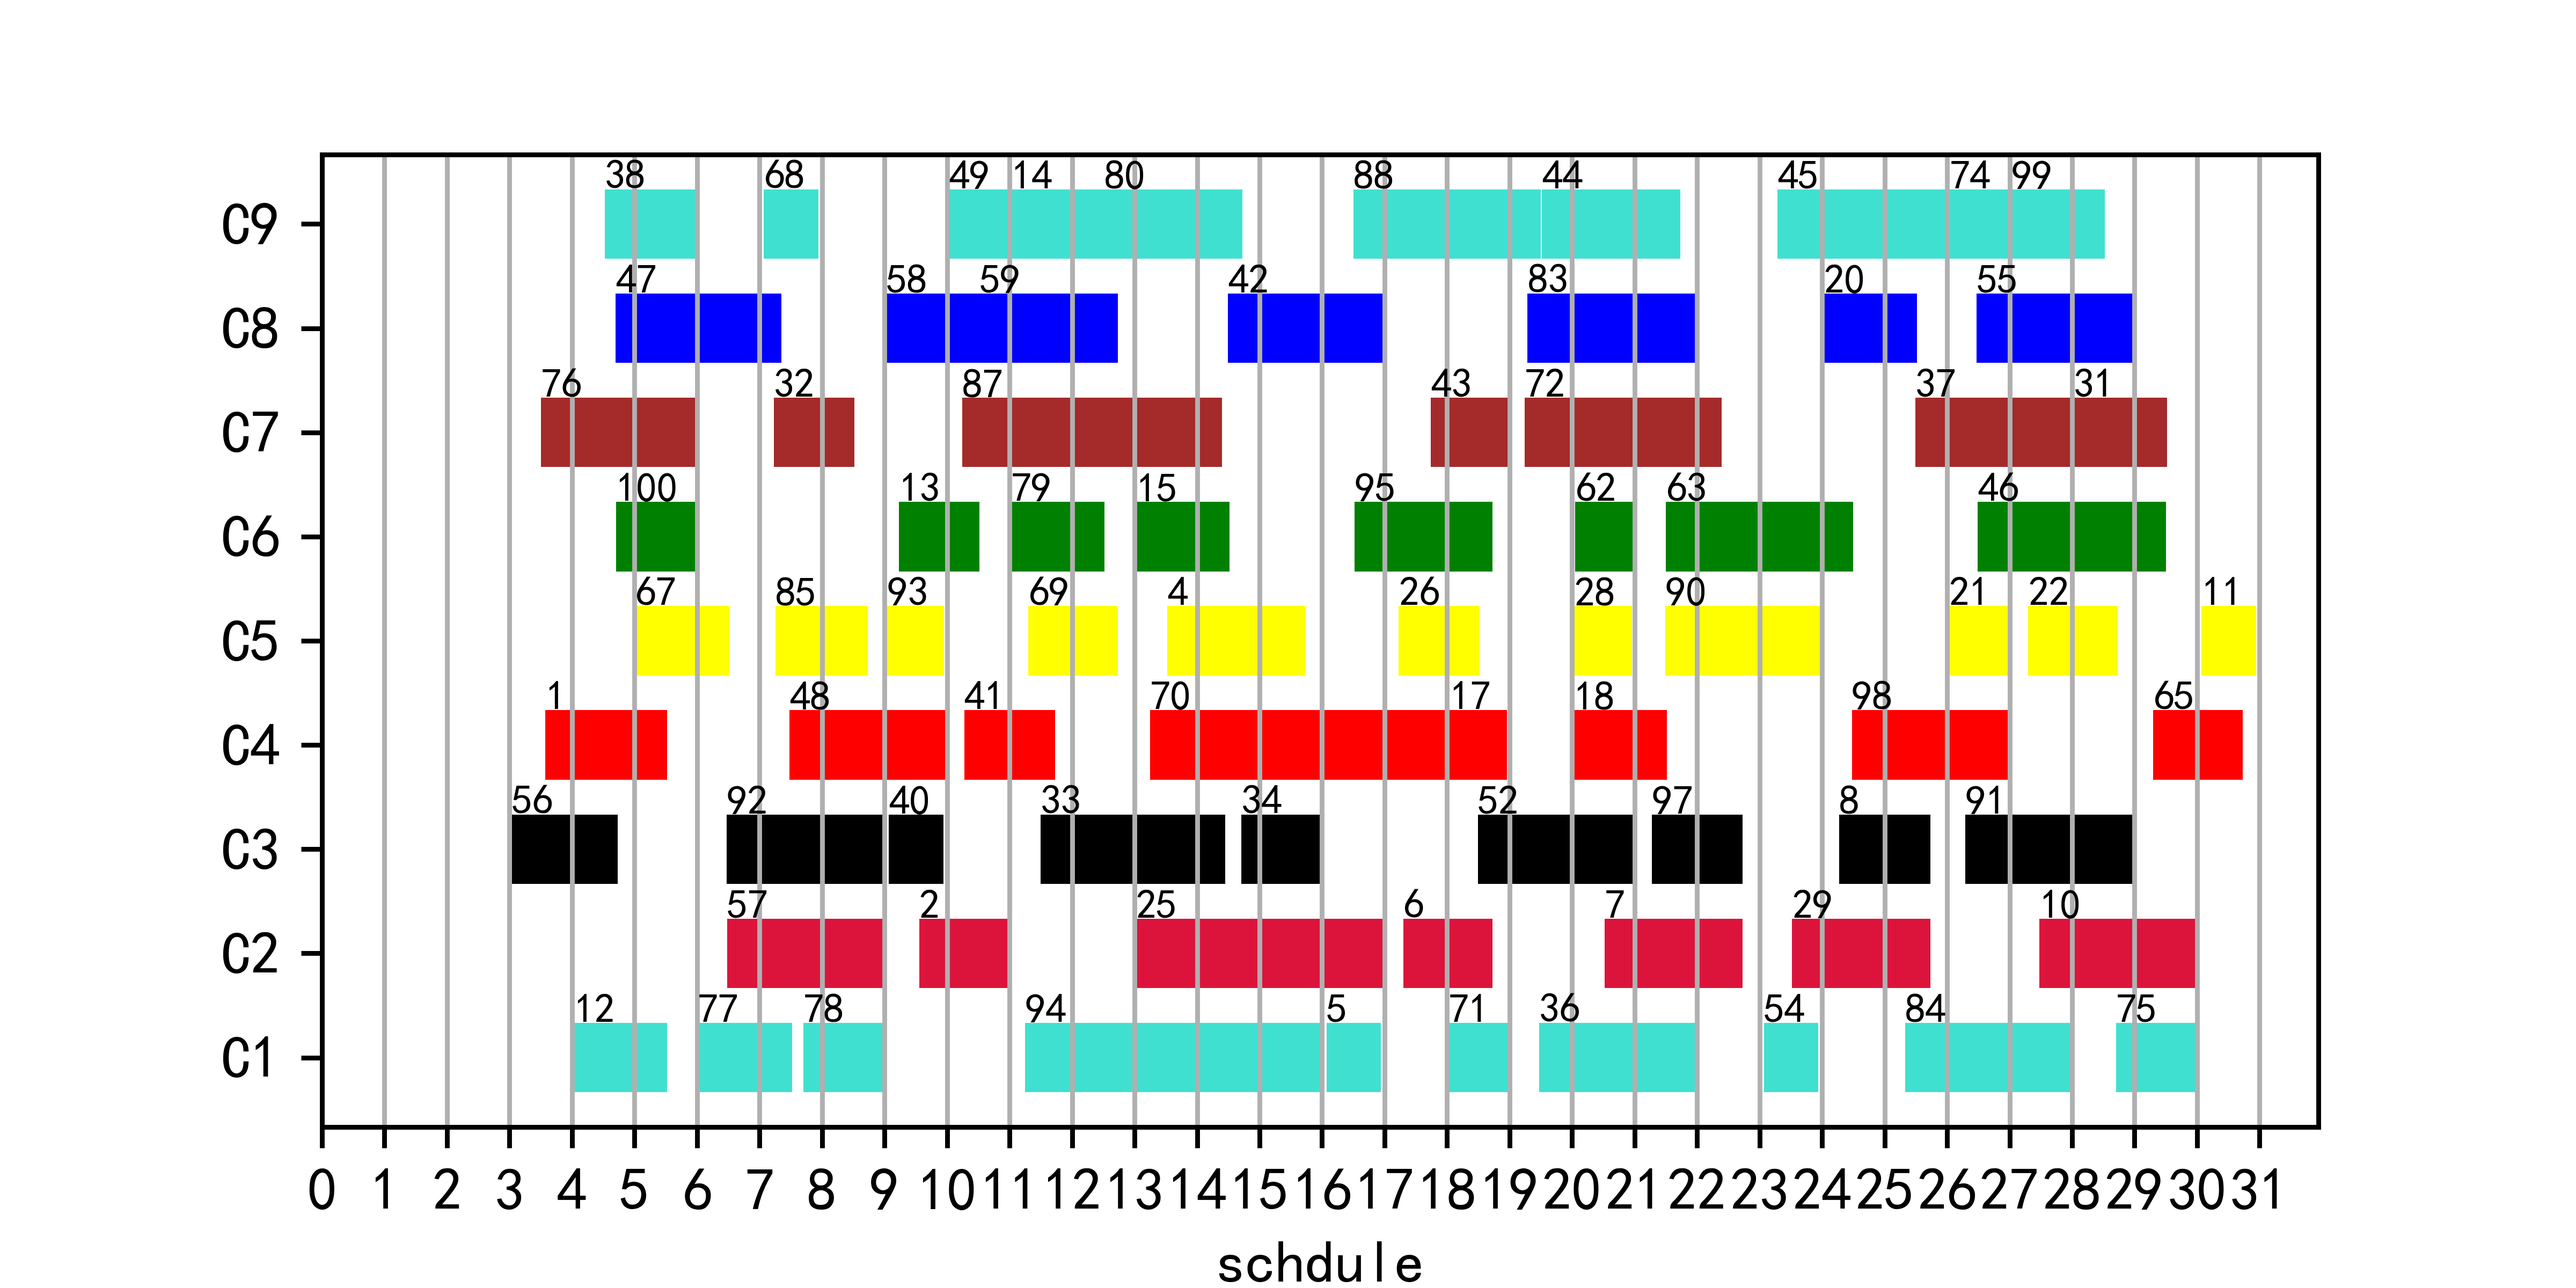
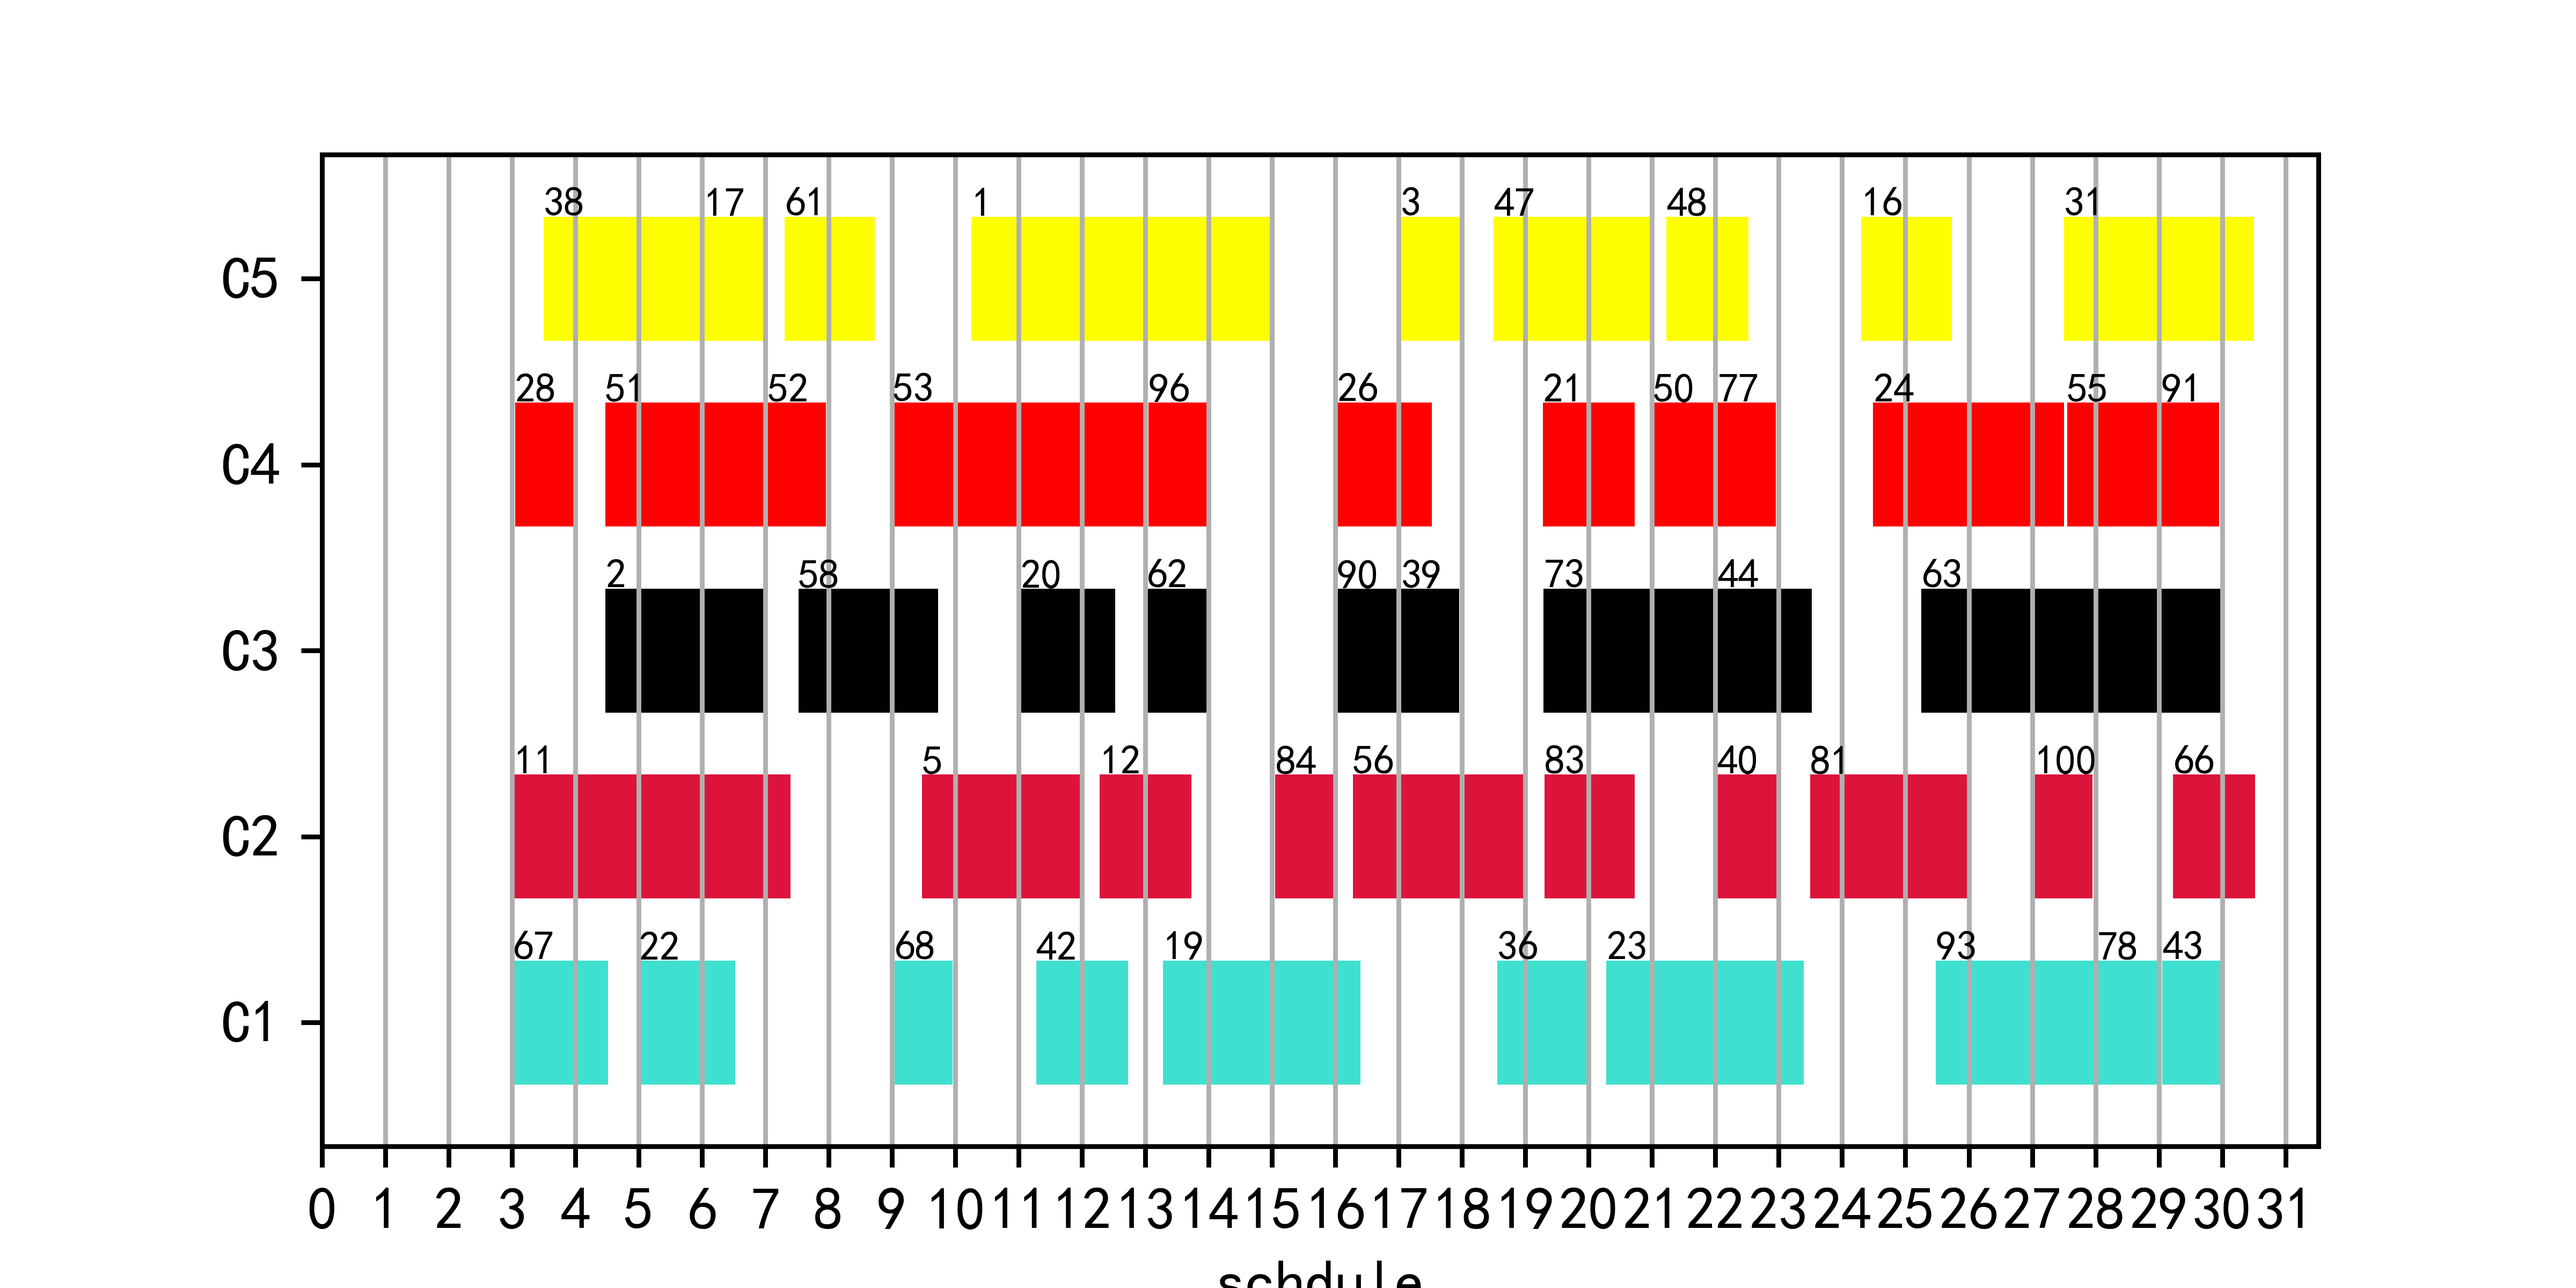
V2_1 rename

diff --git a/Data_V2_1.py b/Data_V2_1.py
@@ -8,7 +8,7 @@ from math import floor, ceil
 import pandas as pd
 
 # Size Setting
-m = 9
+m = 5
 nt = 100
 data = pd.read_csv("Pairings.csv", index_col=False)
 data1 = data.sample(n=nt, random_state=1)
@@ -34,21 +34,21 @@ n = Main_Sheet.nrows - 1
 # PR_j: the Rest End Time of jth pairing (day)
 PR_j = [[]]
 for j in range(1,n+1):
-    temp = Main_Sheet.cell_value(j,11)+'0'
+    temp = Main_Sheet.cell_value(j,11)+':00'
     rt = time.strptime((temp), "%m/%d/%Y %H:%M:%S")
     rt_new = round(rt.tm_mday+rt.tm_hour/24+rt.tm_min/(60*24),5)
     PR_j.append(rt_new)
 # PS_j: the Start Time of jth pairing (day)
 PS_j = [[]]
 for j in range(1,n+1):
-    temp = Main_Sheet.cell_value(j,9)+'0'
+    temp = Main_Sheet.cell_value(j,9)+':00'
     st = time.strptime((temp), "%m/%d/%Y %H:%M:%S")
     st_new = round(st.tm_mday+st.tm_hour/24+st.tm_min/(60*24),5)
     PS_j.append(st_new)
 # PE_j: the End Time of jth pairing (day)
 PE_j = [[]]
 for j in range(1,n+1):
-    temp = Main_Sheet.cell_value(j,10)+'0'
+    temp = Main_Sheet.cell_value(j,10)+':00'
     et = time.strptime((temp), "%m/%d/%Y %H:%M:%S")
     et_new = round(et.tm_mday+et.tm_hour/24+et.tm_min/(60*24),5)
     PE_j.append(et_new)

diff --git a/Model_V2_1.py b/Model_V2_1.py
@@ -13,15 +13,15 @@ l--ln
 
 import pyomo.environ as pe
 import pyomo.opt
-from Data_V2 import * 
+from Data_V2_1 import * 
 
 model= pe.ConcreteModel()
 
 '''Define parameters, sets & indices, and variables'''
-optimality_gap = 0.01
+optimality_gap = 0.02
 # Model Parameters
 c1=0
-c2=1
+c2=[[],1.5,1.4,1.3,1.2,1.1]
 c3=0
 upper_hard = 100
 upper_soft = 95
@@ -70,7 +70,7 @@ def obj_rule(model):
         for j in model.j:
             pairingdays_assigned = model.ld[j] * model.x[i,j]
             blockhours_assigned = model.bh[j] * model.x[i,j]
-            cost =  c1*pairingdays_assigned + c2*blockhours_assigned
+            cost =  c1*pairingdays_assigned + c2[i]*blockhours_assigned
             total_cost += cost
         total_cost = total_cost - c3*(model.s1[i]+model.s2[i])
     obj = total_cost

diff --git a/Visual_V2.py b/Visual_V2.py
@@ -6,7 +6,7 @@ Created on Fri Mar 30 01:19:54 2018
 """
 
 # coding=UTF-8
-from Model_V2 import x_nonzero, PS_j, PR_j, y_nonzero, dn
+from Model_V2_1 import x_nonzero, PS_j, PR_j, y_nonzero, dn
 from Summary_V2 import df as summary
 import pandas as pd
 import io

diff --git a/Summary_V2.py b/Summary_V2.py
@@ -4,7 +4,7 @@ Created on Fri Mar 30 00:09:52 2018
 @author: enock
 """
 
-from Model_V2 import *
+from Model_V2_1 import *
 import numpy as np
 import pandas as pd
 ##the percentage of assigned pairings
